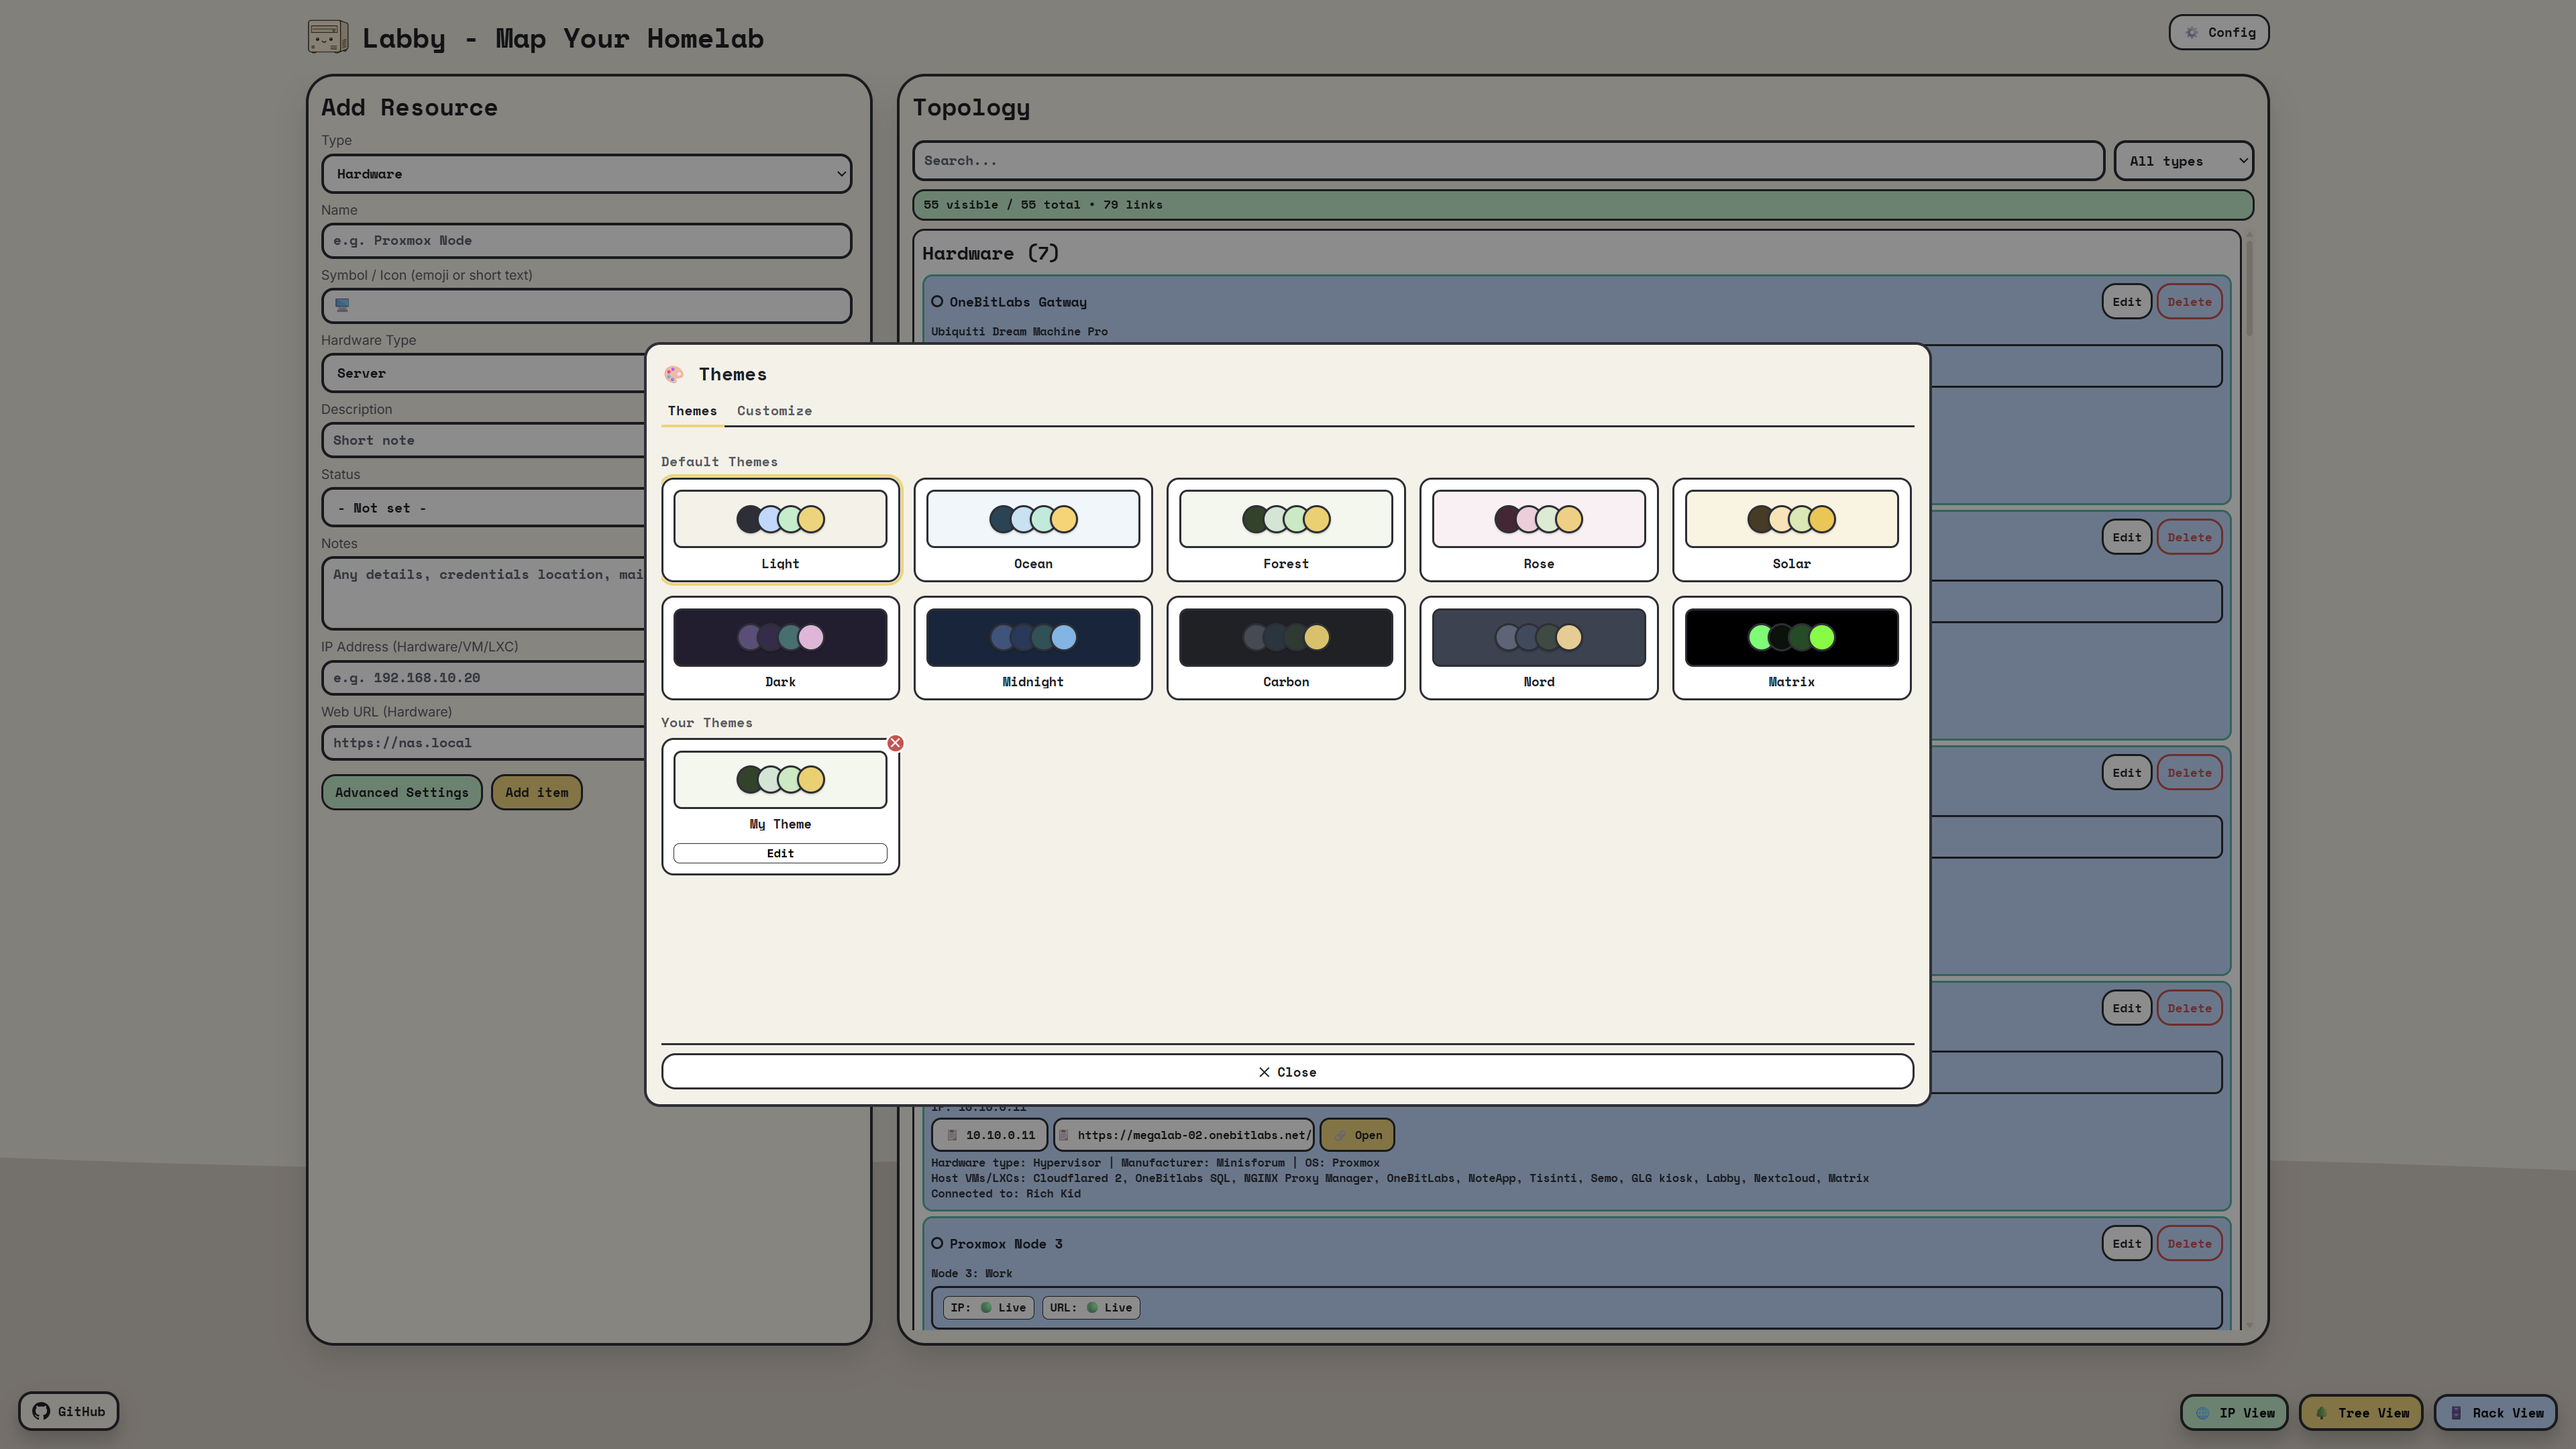
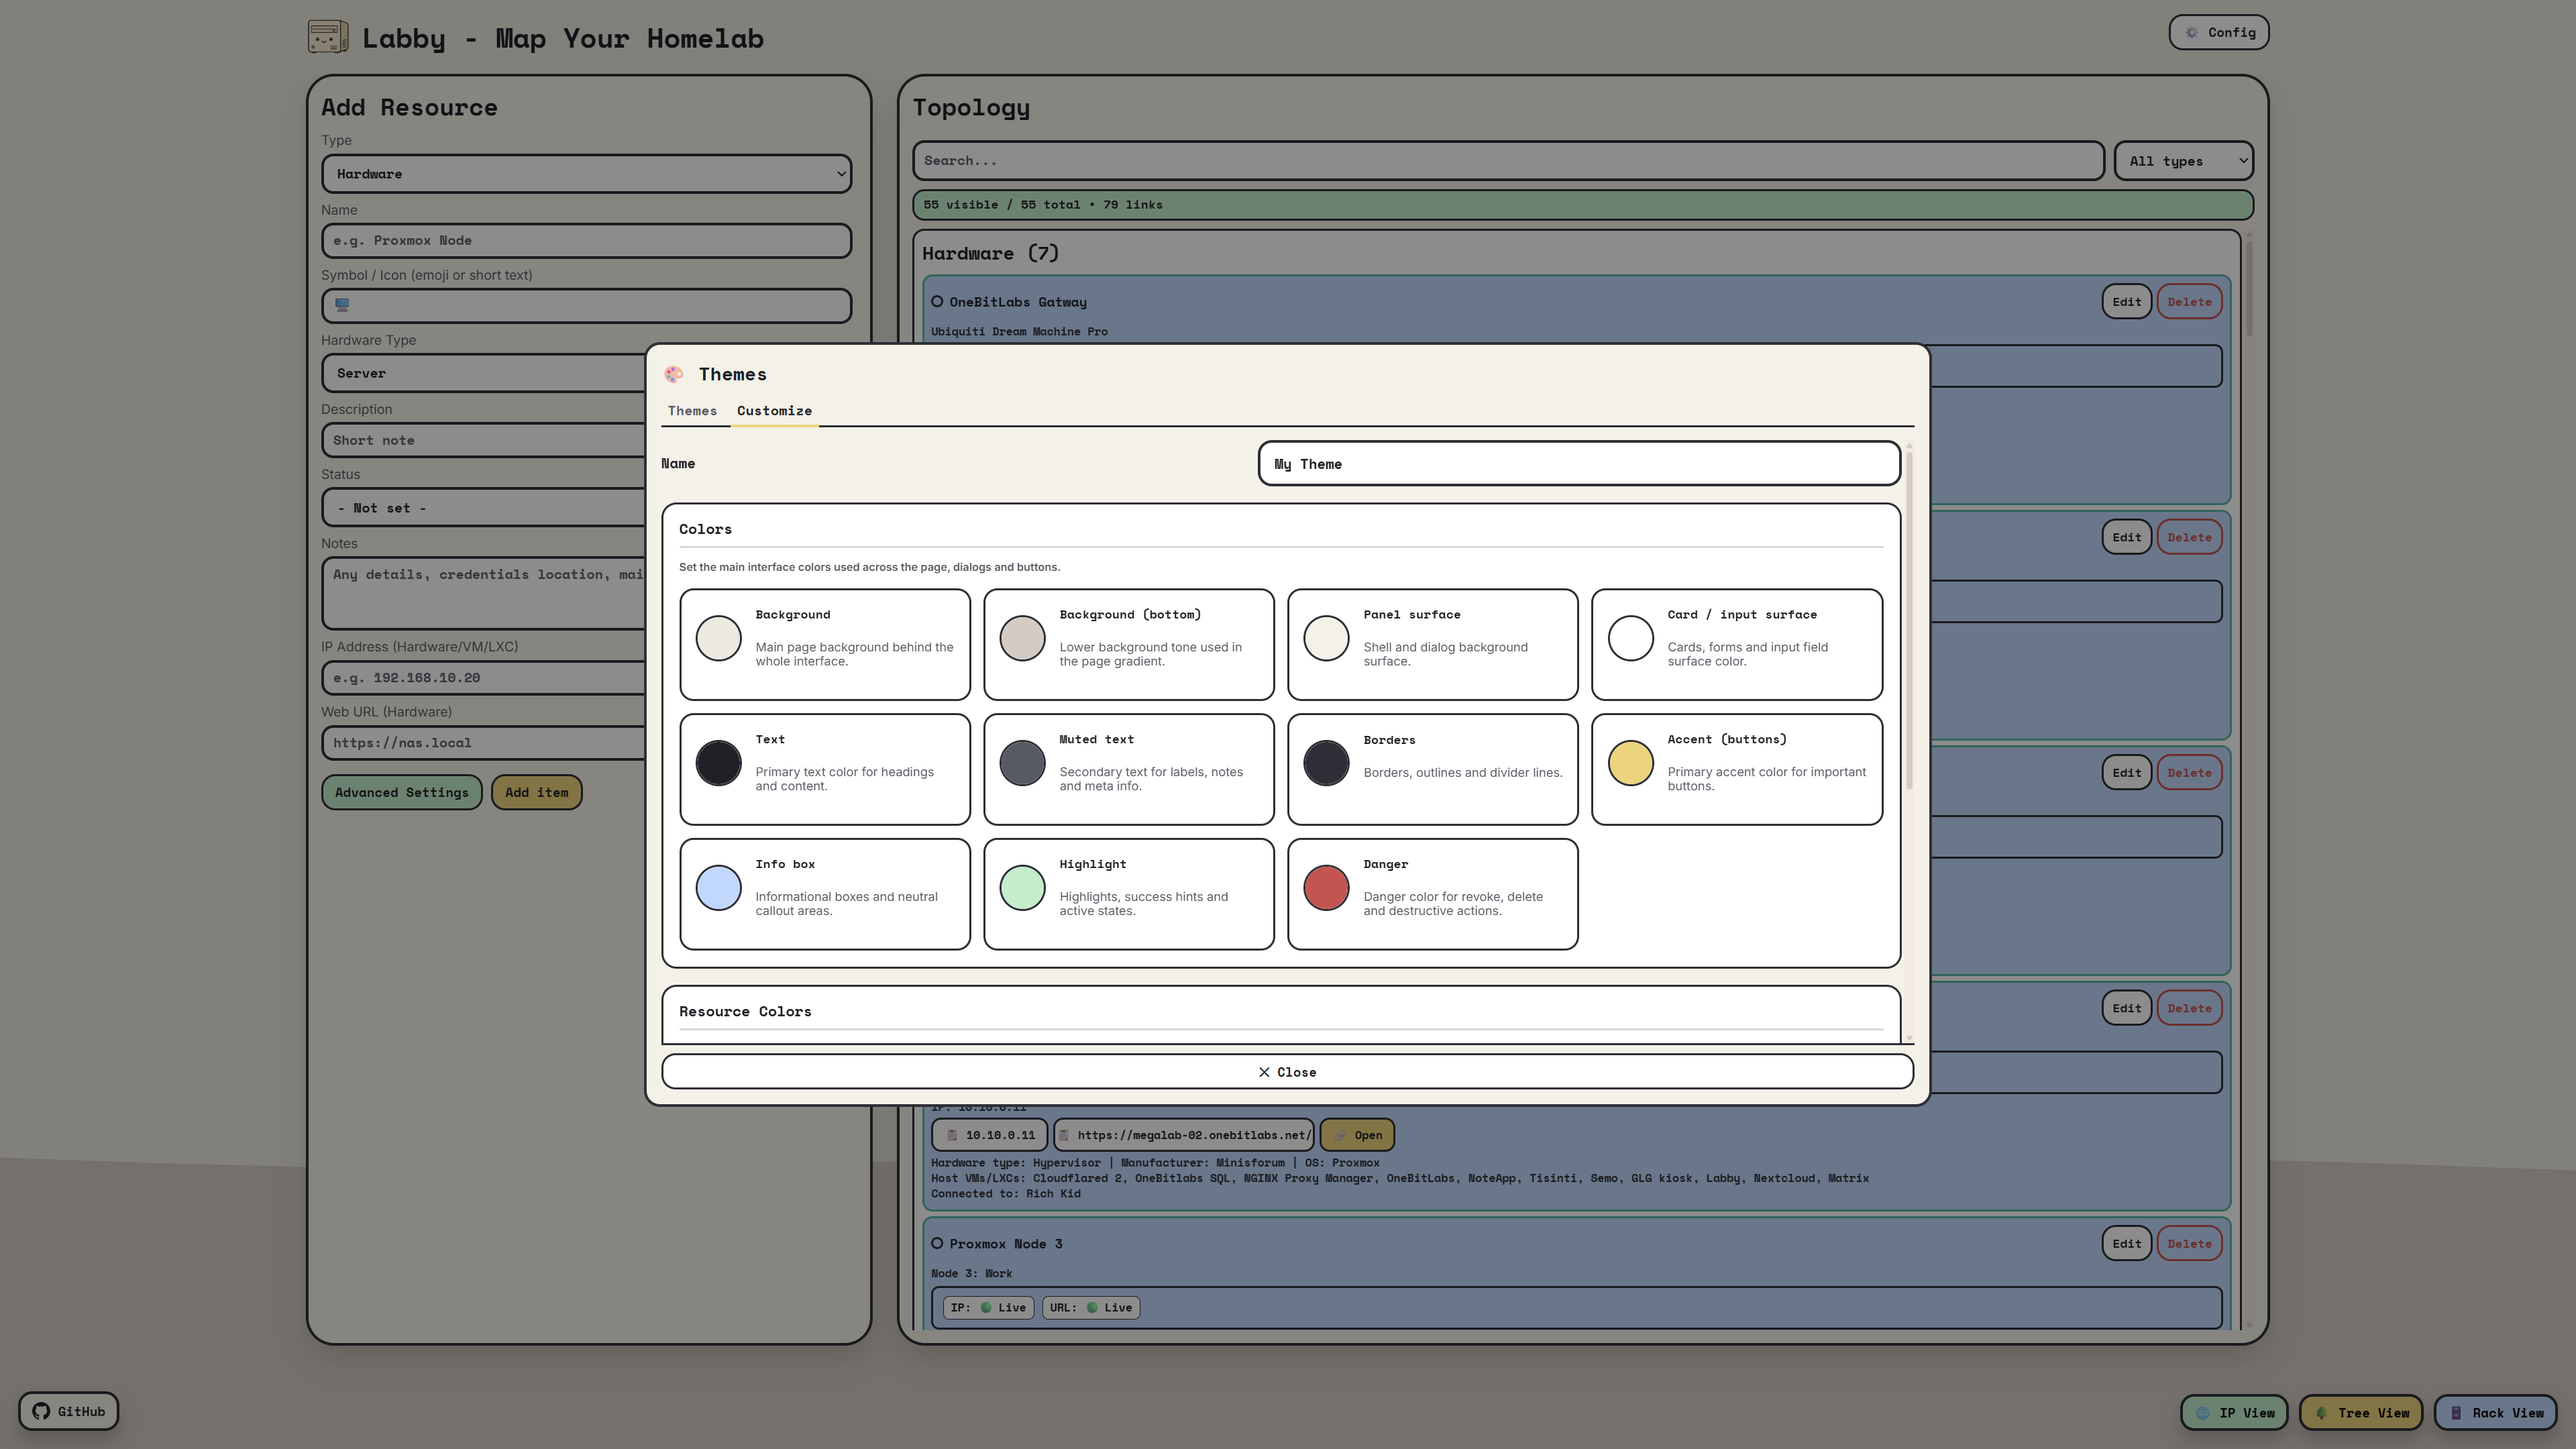
Clean wiki intro text and correct theme screenshot filenames

Changed region(s): [[0.25, 0.2792, 0.75, 0.7134]]

diff --git a/website/wiki.html b/website/wiki.html
@@ -1075,7 +1075,6 @@ docker compose up -d</pre>
       <p>Then restart and open <code>http://localhost:9090</code>.</p>
     `},
     quickstart:{title:'🧭 Quick Start',content:`
-      <p>A clean setup order keeps the map easy to understand.</p>
       <h2>1. Add Networks First</h2>
       <p>Create networks with name, subnet, gateway and color. Labby auto-matches IPs to subnets.</p>
       <pre>Core LAN
@@ -1514,7 +1513,6 @@ docker compose up -d</pre>
       <p>Add networks before adding devices. This allows Labby to match devices to the correct subnet automatically.</p>
     `},
     themes:{title:'🎨 Themes',content:`
-      <p>Labby includes a complete theme system for desktop and mobile.</p>
       <div class="wiki-shot-grid">
         <figure class="wiki-shot"><img src="images/labby-theme-selector.png" alt="Theme selector" loading="lazy" /><figcaption>Theme selector</figcaption></figure>
         <figure class="wiki-shot"><img src="images/labby-theme-customization.png" alt="Theme customization" loading="lazy" /><figcaption>Theme customization</figcaption></figure>

diff --git a/README.md b/README.md
@@ -14,3 +14,7 @@ The public demo is browser-only. CLI/SSH and Agent API are disabled in the publi
 
 MIT License  
 © [TechByGiusi](https://techbygiusi.com/)
+
+## Documentation
+
+Feature documentation, including Backup Config, SMB/NAS targets, YAML examples and CLI behavior, lives in the website Wiki inside the demo site.
